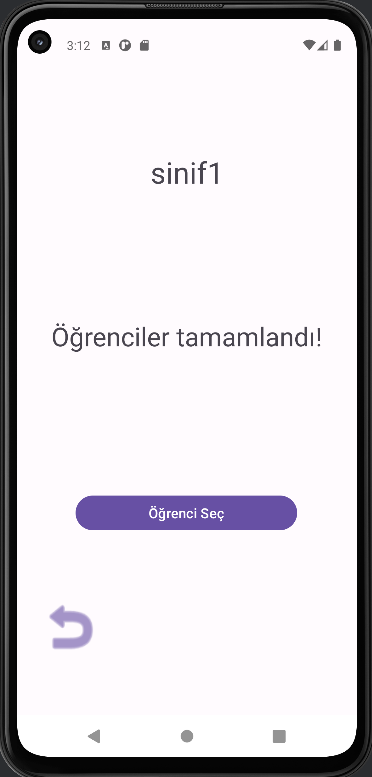
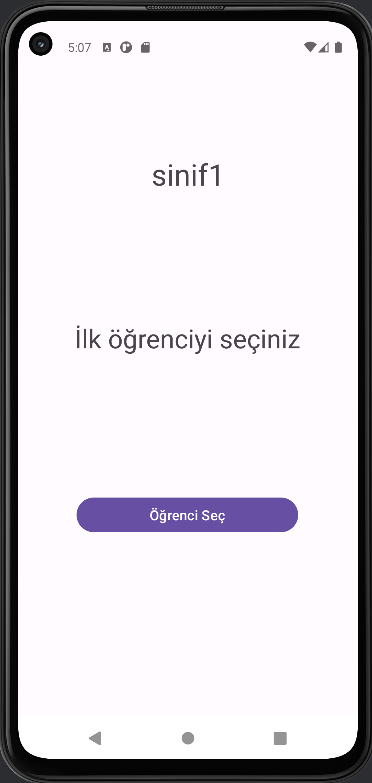
Geri butonu kaldırıldı

diff --git a/app/src/main/java/mert/kadakal/myapplication/ogrenci_sec.java b/app/src/main/java/mert/kadakal/myapplication/ogrenci_sec.java
@@ -44,7 +44,6 @@ public class ogrenci_sec extends AppCompatActivity {
             return insets;
         });
 
-        backtomain = (Button) findViewById(R.id.backToMain);
         snfNo = (TextView) findViewById(R.id.Sınıf_no);
         secilen_ogr = (TextView) findViewById(R.id.secilen_ogr);
         Intent gelenIntent = getIntent();
@@ -56,15 +55,6 @@ public class ogrenci_sec extends AppCompatActivity {
                 "sinif2", sinif2_ogr,
                 "sinif3", sinif3_ogr,
                 "sinif4", sinif4_ogr);
-
-        backtomain.setOnClickListener(new View.OnClickListener() {
-            @Override
-            public void onClick(View v) {
-                // Butona basıldığında yapılacak işlemler buraya yazılır
-                Intent intent = new Intent(ogrenci_sec.this, MainActivityJava.class);
-                startActivity(intent);
-            }
-        });
 
         ogr_list = siniflar.get(snf);
 
@@ -82,8 +72,6 @@ public class ogrenci_sec extends AppCompatActivity {
                 }
             }
         });
-
-
     }
 
     @Override
